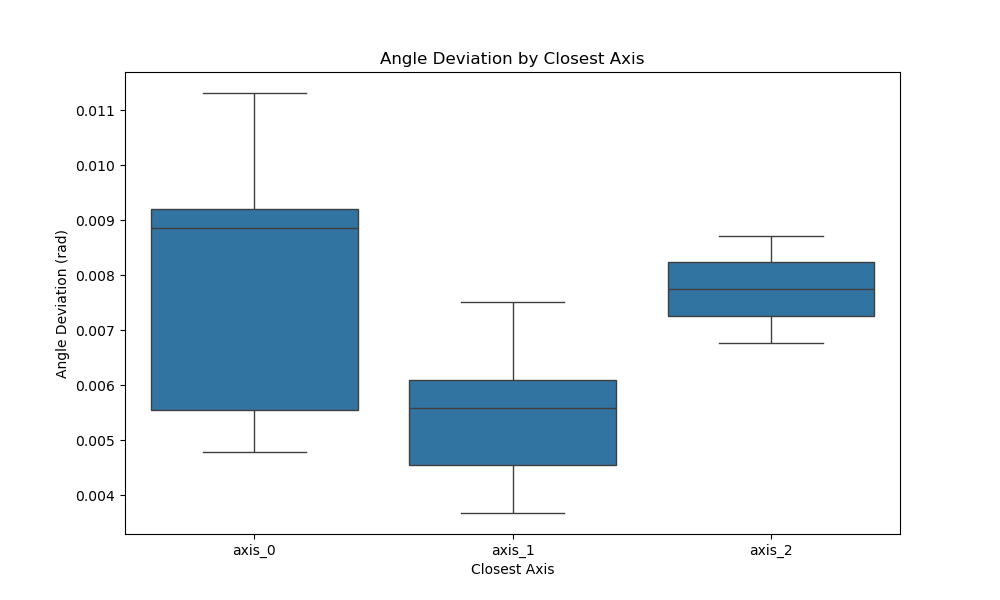
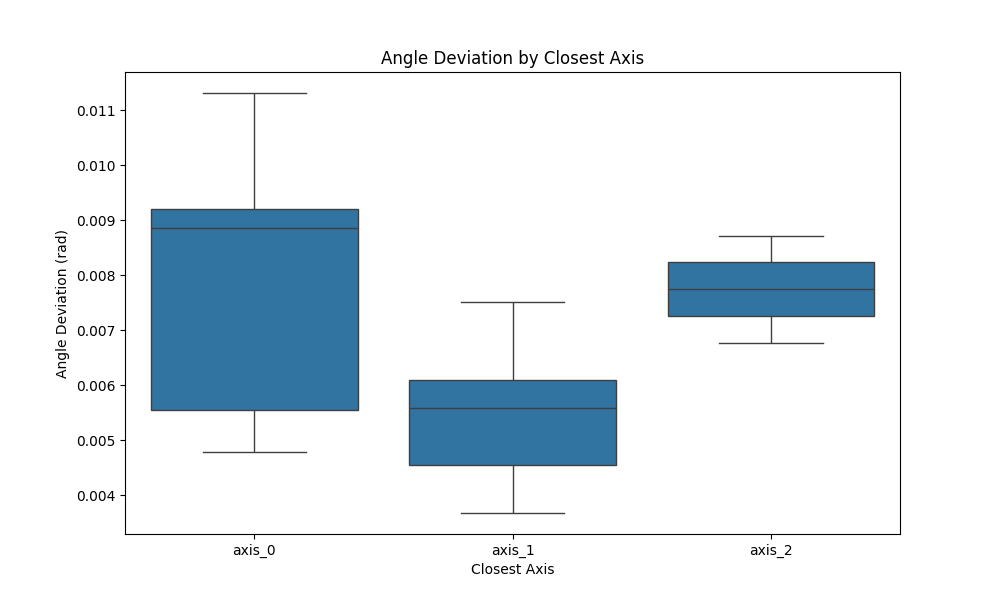
complete fixed base position bar acc holding analysis

diff --git a/data/bar_holding_acc_data/1_bar_acc_stat_analysis.py b/data/bar_holding_acc_data/1_bar_acc_stat_analysis.py
@@ -86,6 +86,23 @@ for entry in data:
 # Convert to DataFrame for easier analysis
 df = pd.DataFrame(extracted_data)
 
+# Calculate average angle deviation and standard deviation
+average_angle_deviation = df['angle_deviation'].mean()
+std_angle_deviation = df['angle_deviation'].std()
+
+# Print the statistics
+logger.info(f"Average angle deviation: {average_angle_deviation:.4f} rad ({np.degrees(average_angle_deviation):.4f} degrees)")
+logger.info(f"Standard deviation: {std_angle_deviation:.4f} rad ({np.degrees(std_angle_deviation):.4f} degrees)")
+
+# Also compute median and interquartile range
+median_angle_deviation = df['angle_deviation'].median()
+q1 = df['angle_deviation'].quantile(0.25)
+q3 = df['angle_deviation'].quantile(0.75)
+iqr = q3 - q1
+
+logger.info(f"Median angle deviation: {median_angle_deviation:.4f} rad ({np.degrees(median_angle_deviation):.4f} degrees)")
+logger.info(f"Interquartile range: {iqr:.4f} rad ({np.degrees(iqr):.4f} degrees)")
+
 # Save original closest_axis before one-hot encoding (for coloring plots)
 df['axis_label'] = df['closest_axis'].astype(str)
 
@@ -104,14 +121,14 @@ def categorize_height(height):
 df['height_category'] = df['bar_height'].apply(categorize_height)
 
 # Categorize footprint yaw into 8 partitions (0-360 degrees)
+YAW_CATEGORIES =['N', 'NE', 'E', 'SE', 'S', 'SW', 'W', 'NW'] 
 def categorize_yaw(yaw_rad):
     # Normalize to [0, 2π)
     yaw_normalized = yaw_rad % (2 * np.pi)
     # Each partition is 45 degrees (π/4 radians)
     partition_size = np.pi / 4
     partition_number = int(yaw_normalized / partition_size)
-    direction_names = ['N', 'NE', 'E', 'SE', 'S', 'SW', 'W', 'NW']
-    return direction_names[partition_number]
+    return YAW_CATEGORIES[partition_number]
 
 df['yaw_category'] = df['footprint_yaw'].apply(categorize_yaw)
 
@@ -119,9 +136,14 @@ df['yaw_category'] = df['footprint_yaw'].apply(categorize_yaw)
 df = pd.get_dummies(df, columns=['closest_axis', 'height_category', 'yaw_category'], 
                     prefix=['axis', 'height', 'yaw'])
 
-# Print all column names of the DataFrame
-logger.info("DataFrame columns:")
-logger.info(df.columns.tolist())
+# # Remove bar_height and axis_label columns as they are redundant after feature engineering
+# df = df.drop(['bar_height', 'axis_label'], axis=1)
+# logger.info("Dropped redundant columns: bar_height and axis_label")
+
+# Export DataFrame to CSV
+csv_output_path = os.path.join(data_folder, f'bar_holding_acc_data_{DATA_BATCH}.csv')
+df.to_csv(csv_output_path, index=False)
+logger.info(f"DataFrame exported to CSV: {csv_output_path}")
 
 # Display basic statistics
 logger.info("Basic Statistics:")
@@ -129,7 +151,9 @@ logger.info(df.describe())
 
 # Correlation analysis
 logger.info("\nCorrelation with angle_deviation:")
-correlations = df.corr()['angle_deviation'].sort_values(ascending=False)
+# Filter out bar_height and axis_label from correlation analysis
+correlation_columns = [col for col in df.columns if col != 'bar_height' and col != 'axis_label']
+correlations = df[correlation_columns].corr()['angle_deviation'].sort_values(ascending=False)
 logger.info(correlations)
 
 # Visualize data
@@ -181,14 +205,33 @@ plt.xlabel('X Position')
 
 # Figure 5: Boxplot of angle deviation by yaw category
 plt.figure(figsize=(10, 6))
-sns.boxplot(x='yaw_category', y='angle_deviation', data=df)
-plt.title('Angle Deviation by Footprint Yaw Direction')
-plt.xlabel('Footprint Yaw Direction')
-plt.ylabel('Angle Deviation (rad)')
-plt.savefig(os.path.join(data_folder, '5_yaw_vs_angle.png'))
+
+# Get yaw direction columns that actually exist in the dataframe
+yaw_cols = ['yaw_' + n for n in YAW_CATEGORIES if 'yaw_' + n in df.columns]
+
+if yaw_cols:  # Only proceed if we found valid yaw columns
+    yaw_data = pd.melt(df, id_vars=['angle_deviation'], 
+                       value_vars=yaw_cols,
+                       var_name='yaw', value_name='is_yaw_direction')
+    yaw_data = yaw_data[yaw_data['is_yaw_direction'] == 1]
+    
+    # Extract the yaw category from column name for better labeling
+    yaw_data['yaw_category'] = yaw_data['yaw'].str.replace('yaw_', '')
+    
+    sns.boxplot(x='yaw_category', y='angle_deviation', data=yaw_data)
+    plt.title('Angle Deviation by Footprint Yaw Direction')
+    plt.xlabel('Footprint Yaw Direction')
+    plt.ylabel('Angle Deviation (rad)')
+    plt.savefig(os.path.join(data_folder, '5_yaw_vs_angle.png'))
+else:
+    logger.warning("No yaw direction columns found in the dataframe. Skipping yaw vs angle plot.")
 
 # Feature importance analysis using Random Forest
-X = df.drop(['angle_deviation', 'axis_label'], axis=1)  # Also drop axis_label
+# Drop one-hot encoded categorical columns to avoid multicollinearity
+categorical_cols = [col for col in df.columns if col.startswith(('axis_', 'yaw_', 'height_'))]
+logger.info(f"Dropping one-hot encoded columns: {categorical_cols}")
+
+X = df.drop(['angle_deviation', 'axis_label'] + categorical_cols, axis=1)
 y = df['angle_deviation']
 
 # Scale features
@@ -233,14 +276,14 @@ plt.figure(figsize=(12, 6))
 sns.barplot(x='Importance', y='Feature', data=feature_importance)
 plt.title('Feature Importance for Predicting Angle Deviation')
 plt.tight_layout()
-plt.savefig(os.path.join(data_folder, 'feature_importance.png'))
+plt.savefig(os.path.join(data_folder, '6_feature_importance.png'))
 
 # Visualize mutual information
 plt.figure(figsize=(12, 6))
 sns.barplot(x='MI Score', y='Feature', data=mi_df)
 plt.title('Mutual Information Scores for Predicting Angle Deviation')
 plt.tight_layout()
-plt.savefig(os.path.join(data_folder, 'mutual_info.png'))
+plt.savefig(os.path.join(data_folder, '7_mutual_info.png'))
 
 # ANOVA analysis for categorical variables
 
@@ -278,6 +321,33 @@ plt.colorbar(label='Bar Height')
 plt.xlabel('Distance from CoM to Support Polygon Center')
 plt.ylabel('Angle Deviation (rad)')
 plt.title('Distance CoM vs Angle Deviation (colored by bar height)')
-plt.savefig(os.path.join(data_folder, 'summary_visualization.png'))
+plt.savefig(os.path.join(data_folder, '8_summary_visualization.png'))
+
+# Analyze effect of CoM distance on angle deviation
+# Discretize distance_com_to_polygon into quartiles for ANOVA
+logger.info("\nANOVA Analysis - Effect of CoM distance on angle deviation:")
+df['distance_category'] = pd.qcut(df['distance_com_to_polygon'], 4, labels=['Q1', 'Q2', 'Q3', 'Q4'])
+
+# Group angles by distance quartile
+q1_angles = df[df['distance_category'] == 'Q1']['angle_deviation']
+q2_angles = df[df['distance_category'] == 'Q2']['angle_deviation']
+q3_angles = df[df['distance_category'] == 'Q3']['angle_deviation']
+q4_angles = df[df['distance_category'] == 'Q4']['angle_deviation']
+
+# Run ANOVA test
+f_stat, p_val = stats.f_oneway(q1_angles, q2_angles, q3_angles, q4_angles)
+logger.info(f"F-statistic: {f_stat:.4f}, p-value: {p_val:.4f}")
+if p_val < 0.05:
+    logger.info("There is a statistically significant difference in angle deviation between CoM distance quartiles.")
+else:
+    logger.info("No statistically significant difference in angle deviation between CoM distance quartiles.")
+
+# Visualize the relationship with a box plot
+plt.figure(figsize=(10, 6))
+sns.boxplot(x='distance_category', y='angle_deviation', data=df)
+plt.title('Angle Deviation by Distance to Support Polygon (Quartiles)')
+plt.xlabel('Distance from CoM to Support Polygon Center (Quartiles)')
+plt.ylabel('Angle Deviation (rad)')
+plt.savefig(os.path.join(data_folder, '9_com_distance_categories_vs_angle.png'))
 
 logger.info("\nAnalysis complete. Visualizations saved to disk.")